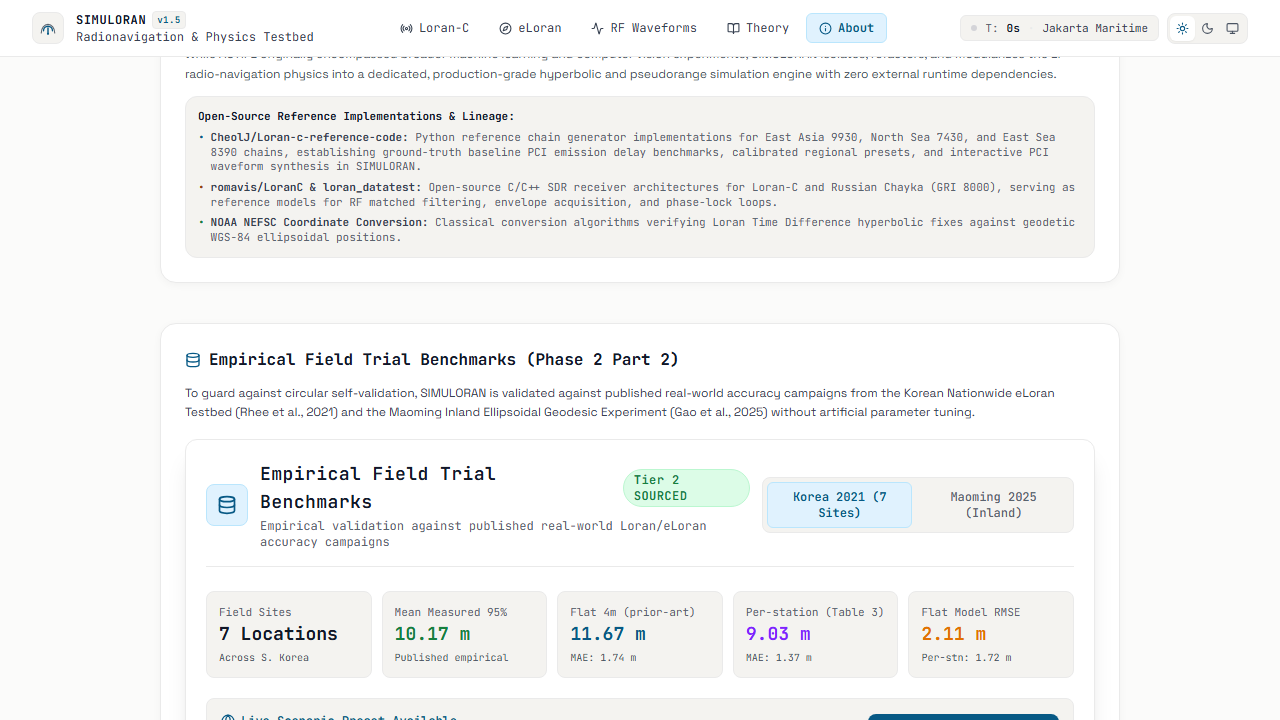
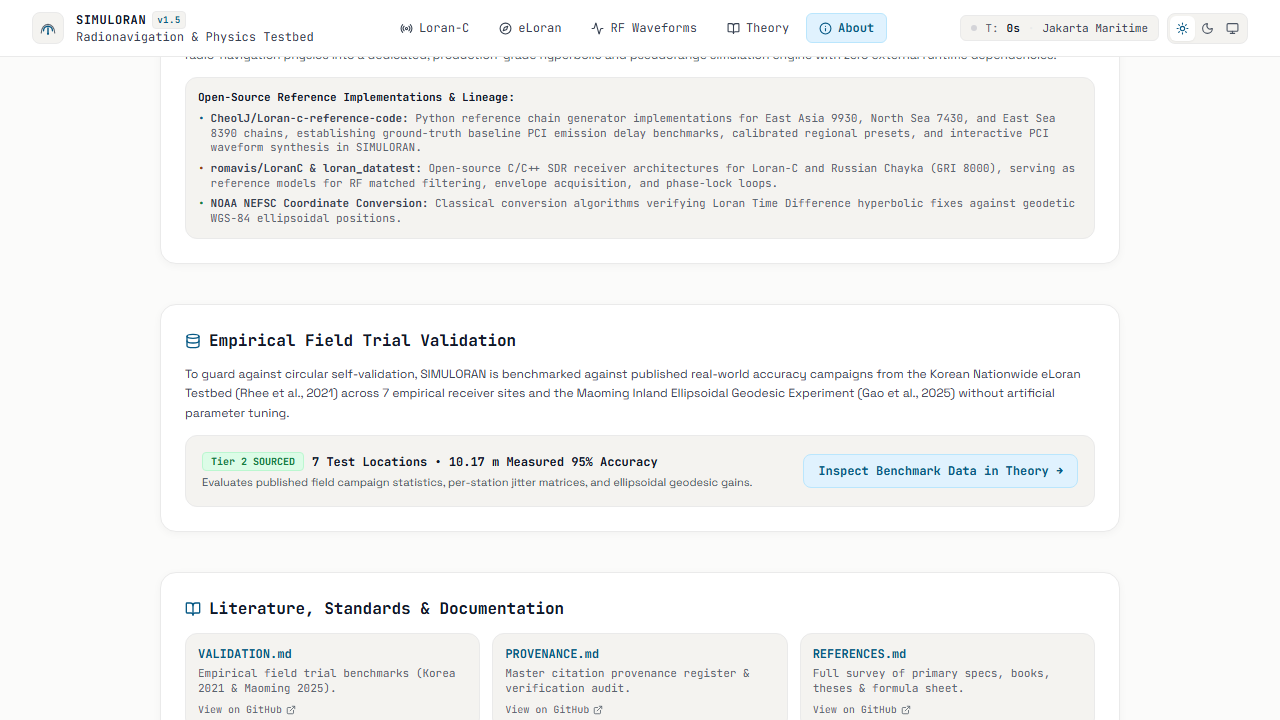
refactor(about): relocate empirical benchmark tables to theory page and add streamlined validation card

diff --git a/e2e/trial-validation.spec.js b/e2e/trial-validation.spec.js
@@ -2,18 +2,39 @@ import { test, expect } from '@playwright/test';
 import fs from 'fs';
 
 test.describe('Empirical Field Trial Validation E2E Suite', () => {
-  test('verifies About page benchmark cards and AsfPanel trial validation integration', async ({ page }) => {
+  test('verifies About page benchmark summary, Theory page benchmark tables, and AsfPanel integration', async ({ page }) => {
     test.setTimeout(90000);
     const pageErrors = [];
     page.on('pageerror', (err) => pageErrors.push(err.message || String(err)));
 
-    // 1. Visit /about page
+    // 1. Visit /about page and verify streamlined summary card
     await page.goto('/about');
     await page.waitForLoadState('domcontentloaded');
 
-    // Verify benchmark section heading
-    const heading = page.getByRole('heading', { name: 'Empirical Field Trial Benchmarks (Phase 2 Part 2)' });
-    await expect(heading).toBeVisible();
+    const aboutHeading = page.getByRole('heading', { name: 'Empirical Field Trial Validation' });
+    await expect(aboutHeading).toBeVisible();
+
+    await expect(page.getByText('Tier 2 SOURCED').first()).toBeVisible();
+    await expect(page.getByText(/7 Test Locations.*10\.17 m Measured 95% Accuracy/).first()).toBeVisible();
+
+    const outputDir = 'docs/verification/screenshots';
+    if (!fs.existsSync(outputDir)) {
+      fs.mkdirSync(outputDir, { recursive: true });
+    }
+    await aboutHeading.scrollIntoViewIfNeeded();
+    await page.waitForTimeout(300);
+    await page.screenshot({ path: `${outputDir}/trial_validation_about.png`, fullPage: false });
+
+    // 2. Click link to Theory page benchmarks
+    const theoryLink = page.getByRole('link', { name: /Inspect Benchmark Data in Theory/i });
+    await expect(theoryLink).toBeVisible();
+    await theoryLink.click();
+    await page.waitForLoadState('domcontentloaded');
+    await page.waitForTimeout(600);
+
+    // Verify Theory page benchmark section
+    const learnHeading = page.getByRole('heading', { name: 'Empirical Field Trial Benchmarks', exact: true });
+    await expect(learnHeading).toBeVisible();
 
     // Verify Korea 2021 summary cards
     await expect(page.getByText('7 Locations').first()).toBeVisible();
@@ -30,21 +51,12 @@ test.describe('Empirical Field Trial Validation E2E Suite', () => {
     await expect(page.getByRole('cell', { name: 'Incheon' }).first()).toBeVisible();
     await expect(page.getByRole('columnheader', { name: 'Per-Station (Table 3)' }).first()).toBeVisible();
 
-    // Verify tier disclosure badge
-    await expect(page.getByText('Tier 2 SOURCED').first()).toBeVisible();
-
-    const outputDir = 'docs/verification/screenshots';
-    if (!fs.existsSync(outputDir)) {
-      fs.mkdirSync(outputDir, { recursive: true });
-    }
-    await heading.scrollIntoViewIfNeeded();
+    // Capture screenshot of Korea tab in Theory
+    await learnHeading.scrollIntoViewIfNeeded();
     await page.waitForTimeout(400);
-
-    // Capture screenshot of Korea tab showing 5 cards & per-station column
-    await page.screenshot({ path: `${outputDir}/trial_validation_about.png`, fullPage: false });
     await page.screenshot({ path: `${outputDir}/trial_validation_korea.png`, fullPage: false });
 
-    // 2. Switch tab to Maoming 2025
+    // Switch tab to Maoming 2025
     const maomingTab = page.getByRole('button', { name: /Maoming 2025 \(Inland\)/i }).first();
     await expect(maomingTab).toBeVisible();
     await maomingTab.click();

diff --git a/src/pages/About.jsx b/src/pages/About.jsx
@@ -6,7 +6,6 @@ import {
   Code2, CheckCircle2,
 } from 'lucide-react';
 
-import TrialValidationPanel from '../components/panels/TrialValidationPanel.jsx';
 
 const CAPABILITIES = [
   {
@@ -304,17 +303,58 @@ export default function About() {
         </div>
       </SectionCard>
 
-      {/* Empirical Field Trial Benchmarks */}
+      {/* Empirical Field Trial Validation */}
       <SectionCard>
         <SectionHeading icon={Database} iconColor="var(--accent-eloran)">
-          Empirical Field Trial Benchmarks (Phase 2 Part 2)
+          Empirical Field Trial Validation
         </SectionHeading>
-        <p className="text-xs leading-relaxed mb-4" style={{ color: 'var(--text-secondary)' }}>
-          To guard against circular self-validation, SIMULORAN is validated against published real-world
-          accuracy campaigns from the Korean Nationwide eLoran Testbed (Rhee et al., 2021) and the
-          Maoming Inland Ellipsoidal Geodesic Experiment (Gao et al., 2025) without artificial parameter tuning.
+        <p className="text-xs leading-relaxed mb-3" style={{ color: 'var(--text-secondary)' }}>
+          To guard against circular self-validation, SIMULORAN is benchmarked against published real-world
+          accuracy campaigns from the Korean Nationwide eLoran Testbed (Rhee et al., 2021) across 7 empirical receiver sites
+          and the Maoming Inland Ellipsoidal Geodesic Experiment (Gao et al., 2025) without artificial parameter tuning.
         </p>
-        <TrialValidationPanel />
+
+        <div
+          className="p-4 rounded-xl border flex flex-col sm:flex-row items-start sm:items-center justify-between gap-4 font-mono text-xs"
+          style={{
+            background: 'var(--bg-subtle)',
+            borderColor: 'var(--border-subtle)',
+          }}
+        >
+          <div className="space-y-1">
+            <div className="flex flex-wrap items-center gap-2">
+              <span
+                className="px-2 py-0.5 rounded text-[10px] font-bold"
+                style={{
+                  background: 'var(--status-ok-subtle)',
+                  color: 'var(--status-ok)',
+                  border: '1px solid var(--status-ok-border)',
+                }}
+              >
+                Tier 2 SOURCED
+              </span>
+              <span className="font-bold text-[var(--text-primary)]">
+                7 Test Locations &bull; 10.17 m Measured 95% Accuracy
+              </span>
+            </div>
+            <p className="text-[11px] font-sans" style={{ color: 'var(--text-muted)' }}>
+              Evaluates published field campaign statistics, per-station jitter matrices, and ellipsoidal geodesic gains.
+            </p>
+          </div>
+
+          <Link
+            to="/learn#empirical-benchmarks"
+            className="inline-flex items-center gap-1.5 px-3.5 py-2 rounded-lg text-xs font-bold transition hover:opacity-90 shrink-0 cursor-pointer"
+            style={{
+              background: 'var(--accent-eloran-subtle)',
+              border: '1px solid var(--accent-eloran-border)',
+              color: 'var(--accent-eloran)',
+            }}
+            title="Inspect full empirical benchmark tables, test site coordinates, and preset launchers in Theory"
+          >
+            Inspect Benchmark Data in Theory &rarr;
+          </Link>
+        </div>
       </SectionCard>
 
       {/* Literature & Documentation */}

diff --git a/src/pages/Learn.jsx b/src/pages/Learn.jsx
@@ -3,8 +3,9 @@ import { useNavigate } from 'react-router-dom';
 import {
   Compass, Radio, Activity, Layers,
   ShieldCheck, TrendingDown, ArrowRight, BookOpen,
-  Cpu,
+  Cpu, Database,
 } from 'lucide-react';
+import TrialValidationPanel from '../components/panels/TrialValidationPanel.jsx';
 import { useSimulationStore } from '../state/simulationStore.js';
 import MathView from '../components/ui/MathView.jsx';
 
@@ -441,6 +442,36 @@ export default function Learn() {
               Where seasonal temperature and humidity swings induce sinusoidal phase variations (up to ~100 ns across 500 km), calibrated in literature against Korean eLoran trials (Song & Son 2025).
             </p>
           </div>
+        </div>
+      </section>
+
+      {/* Empirical Field Trial Benchmarks & Real-World Validation */}
+      <section id="empirical-benchmarks" className="space-y-4">
+        <div>
+          <div
+            className="flex items-center gap-2 font-mono text-xs font-semibold uppercase tracking-wider mb-1"
+            style={{ color: 'var(--accent-eloran)' }}
+          >
+            <Database size={14} aria-hidden="true" /> Empirical Scientific Verification
+          </div>
+          <h2
+            className="text-2xl font-bold tracking-tight font-mono"
+            style={{ color: 'var(--text-primary)' }}
+          >
+            Empirical Field Trial Benchmarks
+          </h2>
+          <p className="text-sm mt-1 max-w-3xl" style={{ color: 'var(--text-secondary)' }}>
+            To guard against circular self-validation, SIMULORAN is validated against published real-world
+            accuracy campaigns from the Korean Nationwide eLoran Testbed (Rhee et al., 2021) and the
+            Maoming Inland Ellipsoidal Geodesic Experiment (Gao et al., 2025) without artificial parameter tuning.
+          </p>
+        </div>
+
+        <div
+          className="rounded-xl p-5 border"
+          style={{ background: 'var(--bg-surface)', borderColor: 'var(--border-subtle)' }}
+        >
+          <TrialValidationPanel />
         </div>
       </section>
     </div>
